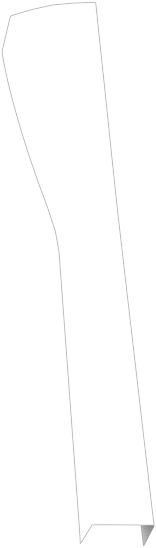
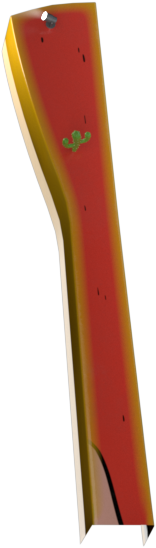
feat: updated dino walls with coloured assets and fixed shapes and tests

diff --git a/packages/pinball_components/lib/gen/assets.gen.dart b/packages/pinball_components/lib/gen/assets.gen.dart
@@ -57,6 +57,8 @@ class $AssetsImagesBackboardGen {
   /// File path: assets/images/backboard/backboard_scores.png
   AssetGenImage get backboardScores =>
       const AssetGenImage('assets/images/backboard/backboard_scores.png');
+
+  /// File path: assets/images/backboard/display.png
   AssetGenImage get display =>
       const AssetGenImage('assets/images/backboard/display.png');
 }
@@ -309,8 +311,11 @@ class $AssetsImagesSparkyBumperGen {
 class $AssetsImagesSparkyComputerGen {
   const $AssetsImagesSparkyComputerGen();
 
+  /// File path: assets/images/sparky/computer/base.png
   AssetGenImage get base =>
       const AssetGenImage('assets/images/sparky/computer/base.png');
+
+  /// File path: assets/images/sparky/computer/top.png
   AssetGenImage get top =>
       const AssetGenImage('assets/images/sparky/computer/top.png');
 }
@@ -354,8 +359,11 @@ class $AssetsImagesDashBumperMainGen {
 class $AssetsImagesSparkyBumperAGen {
   const $AssetsImagesSparkyBumperAGen();
 
+  /// File path: assets/images/sparky/bumper/a/active.png
   AssetGenImage get active =>
       const AssetGenImage('assets/images/sparky/bumper/a/active.png');
+
+  /// File path: assets/images/sparky/bumper/a/inactive.png
   AssetGenImage get inactive =>
       const AssetGenImage('assets/images/sparky/bumper/a/inactive.png');
 }
@@ -363,8 +371,11 @@ class $AssetsImagesSparkyBumperAGen {
 class $AssetsImagesSparkyBumperBGen {
   const $AssetsImagesSparkyBumperBGen();
 
+  /// File path: assets/images/sparky/bumper/b/active.png
   AssetGenImage get active =>
       const AssetGenImage('assets/images/sparky/bumper/b/active.png');
+
+  /// File path: assets/images/sparky/bumper/b/inactive.png
   AssetGenImage get inactive =>
       const AssetGenImage('assets/images/sparky/bumper/b/inactive.png');
 }
@@ -372,8 +383,11 @@ class $AssetsImagesSparkyBumperBGen {
 class $AssetsImagesSparkyBumperCGen {
   const $AssetsImagesSparkyBumperCGen();
 
+  /// File path: assets/images/sparky/bumper/c/active.png
   AssetGenImage get active =>
       const AssetGenImage('assets/images/sparky/bumper/c/active.png');
+
+  /// File path: assets/images/sparky/bumper/c/inactive.png
   AssetGenImage get inactive =>
       const AssetGenImage('assets/images/sparky/bumper/c/inactive.png');
 }

diff --git a/packages/pinball_components/lib/src/components/dino_walls.dart b/packages/pinball_components/lib/src/components/dino_walls.dart
@@ -42,7 +42,7 @@ class _DinoTopWall extends BodyComponent with InitialPosition {
 
     final topStraightShape = EdgeShape()
       ..set(
-        Vector2(28.4, -35.1),
+        Vector2(28.65, -35.1),
         Vector2(29.5, -35.1),
       );
     final topStraightFixtureDef = FixtureDef(topStraightShape);
@@ -69,8 +69,8 @@ class _DinoTopWall extends BodyComponent with InitialPosition {
     final bottomCurveShape = BezierCurveShape(
       controlPoints: [
         middleCurveShape.vertices.last,
-        Vector2(21.15, -16),
-        Vector2(25.6, -15.2),
+        Vector2(21.5, -15.8),
+        Vector2(25.8, -14.8),
       ],
     );
     fixturesDef.add(FixtureDef(bottomCurveShape));
@@ -126,6 +126,7 @@ class _DinoBottomWall extends BodyComponent with InitialPosition {
   ///{@macro dino_top_wall}
   _DinoBottomWall()
       : super(
+          priority: Ball.boardPriority + 1,
           children: [_DinoBottomWallSpriteComponent()],
         ) {
     renderBody = false;
@@ -136,7 +137,7 @@ class _DinoBottomWall extends BodyComponent with InitialPosition {
     const restitution = 1.0;
 
     final topStraightControlPoints = [
-      Vector2(32.4, -8.3),
+      Vector2(32.4, -8.8),
       Vector2(25, -7.7),
     ];
     final topStraightShape = EdgeShape()
